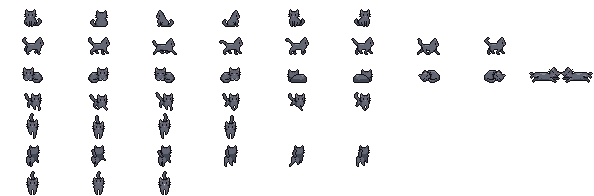
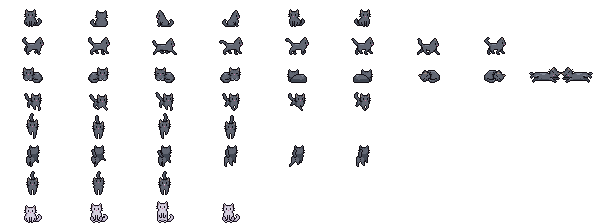
Add draggable pet with split-halfway drag/drop animation
Single GestureDrag distinguishes click (meow) from drag; dragging freezes
the state machine, follows the cursor, and plays the new drag sprite row
only to its halfway frame while held, finishing the second half on
release before resuming prior behavior. Also stash unused REST-block
reference crop for a possible future "flopped" reaction.

diff --git a/pet.py b/pet.py
@@ -76,6 +76,9 @@ class Pet:
         self.afk = False
         self.paused = False    # fullscreen app present: hide + freeze
         self._pre_meow_action = None  # action to resume once a meow finishes
+        self.dragging = False
+        self._pre_drag_action = None  # action to resume once a drag ends
+        self._drag_dx = self._drag_dy = 0.0
         self.W = self.H = 0
         self._last = time.monotonic()
         self._children = []    # spawned helper procs to reap on exit
@@ -170,8 +173,43 @@ class Pet:
     def _exit_meow(self):
         self.enter_action(self._pre_meow_action or "sit")
 
+    def start_drag(self):
+        """Mouse-drag begins: freeze normal behavior, switch to the dangle sprite."""
+        if self.paused:
+            return
+        self._pre_drag_action = (self._pre_meow_action if self.action == "meow"
+                                  else self.action) or "sit"
+        self.action = "drag"
+        self.dragging = True
+        self.action_start = time.monotonic()
+        self.enter("drag")
+
+    def end_drag(self):
+        # hand off from the held first half straight into the second half;
+        # frame is already sitting at the halfway point, just let it keep going
+        self.dragging = False
+        self.action = "drop"
+        self.frame_clock = 0.0
+
     def update(self, dt):
         now = time.monotonic()
+
+        # dragging: animate the "drag" row up to its halfway frame and hold there
+        # while held; on release (see end_drag) action becomes "drop" and we play
+        # out the remaining half once, then resume whatever was running before.
+        if self.action in ("drag", "drop"):
+            a = self.sheet.anim("drag")
+            half = max(1, a["frames"] // 2)
+            cap = (half - 1) if self.action == "drag" else (a["frames"] - 1)
+            dur = 1.0 / a["fps"]
+            self.frame_clock += dt
+            while self.frame_clock >= dur and self.frame < cap:
+                self.frame_clock -= dur
+                self.frame += 1
+            if self.action == "drop" and self.frame >= cap:
+                self.enter_action(self._pre_drag_action or "sit")
+            return
+
         a = self.sheet.anim(self.state)
         # advance animation frames
         self.frame_clock += dt
@@ -430,12 +468,40 @@ def main():
                 rect = cairo.RectangleInt(int(dx), int(dy), int(rw), int(rh))
                 surface.set_input_region(cairo.Region(rect))
 
-        def on_pet_clicked(gesture, n_press, x, y):
-            pet.trigger_meow()
+        # single GestureDrag handles both: a short press-release (no real motion)
+        # is treated as a click -> meow; crossing DRAG_THRESH px starts a real drag
+        # that follows the cursor and shows the "drag" sprite until release.
+        DRAG_THRESH = 6
 
-        click = Gtk.GestureClick.new()
-        click.connect("pressed", on_pet_clicked)
-        area.add_controller(click)
+        def on_drag_begin(gesture, start_x, start_y):
+            gesture.set_state(Gtk.EventSequenceState.CLAIMED)
+
+        def on_drag_update(gesture, offset_x, offset_y):
+            ok, start_x, start_y = gesture.get_start_point()
+            if not ok:
+                return
+            if not pet.dragging:
+                if (offset_x ** 2 + offset_y ** 2) ** 0.5 < DRAG_THRESH:
+                    return
+                pet.start_drag()
+                pet._drag_dx = pet.gx - start_x
+                pet._drag_dy = pet.gy - start_y
+            pet.gx = start_x + offset_x + pet._drag_dx
+            pet.gy = start_y + offset_y + pet._drag_dy
+            pet._clamp()
+            area.queue_draw()
+
+        def on_drag_end(gesture, offset_x, offset_y):
+            if pet.dragging:
+                pet.end_drag()
+            else:
+                pet.trigger_meow()
+
+        drag = Gtk.GestureDrag.new()
+        drag.connect("drag-begin", on_drag_begin)
+        drag.connect("drag-update", on_drag_update)
+        drag.connect("drag-end", on_drag_end)
+        area.add_controller(drag)
 
         def tick():
             now = time.monotonic()

diff --git a/context.md b/context.md
@@ -1,6 +1,6 @@
 # Pixel Pet — Context
 
-> Living status doc. **Update after every successful change.** Last updated: 2026-06-16 (click-to-meow, git init)
+> Living status doc. **Update after every successful change.** Last updated: 2026-06-16 (draggable pet)
 
 ## ⚠️ Maintenance rule (read first)
 **This file MUST be updated after every successfully implemented change.** On each change:
@@ -21,7 +21,12 @@ workspace-independent. Roams in 2D, sits, sleeps when you're away.
   full-output. Click-through everywhere except the pet's own bbox (input region
   shrunk to that rect each tick) so the cat itself is clickable while the rest
   of the screen still passes clicks through. Pixel-art scaled with
-  `FILTER_NEAREST`.
+  `FILTER_NEAREST`. A single `Gtk.GestureDrag` on the drawing area distinguishes
+  click vs drag: press+release under `DRAG_THRESH` (6px) = `pet.trigger_meow()`;
+  crossing that threshold = `pet.start_drag()`, which freezes the state machine
+  and follows the cursor (offset-locked to where it was grabbed) until release
+  (`pet.end_drag()` resumes whatever action was active before, same pattern as
+  the meow freeze/resume).
 - **`run-pet.sh`** — launcher. Sets `LD_PRELOAD=libgtk4-layer-shell.so` (must load
   before libwayland) then runs `pet.py`.
 - **`assets/manifest.json` + `assets/cat/cat.png`** — sprite sheet + metadata.
@@ -33,7 +38,7 @@ niri 26.04, single output eDP-1 1920x1080, Wayland, Arch/cachyos.
 Working dir: `/home/abhi/code/pixel-pet` (now a git repo, initialized 2026-06-16).
 
 ### Sprite sheet truth (rows were mislabeled by auto-segmenter)
-cat.png 594x196, cell 66x28, 9 cols, 7 rows:
+cat.png 594x224, cell 66x28, 9 cols, 8 rows:
 - row0 `idle` — 6 **distinct sit poses** (NOT a loop; hold one frame)
 - row1 `walk` — side/horizontal walk (8)
 - row2 `sleep` — (9)
@@ -42,6 +47,11 @@ cat.png 594x196, cell 66x28, 9 cols, 7 rows:
 - row5 `walk_back` — back walk, ¾ away (6)
 - row6 `meow` — front-facing meow pose, 3 frames, not a loop (added; sourced from
   `assets/src/Free pack/cat 1.png` "meow stand" row, same gray palette as the rest)
+- row7 `drag` — sitting pose, 4 frames, loop (added; sourced directly from a
+  user-supplied lavender/white sprite, not the gray source pack — background was a
+  baked-in gray checkerboard, not real alpha, so it was chroma-keyed out by exact
+  RGB match `(84,81,87)`/`(76,73,79)` before cropping/centering/bottom-aligning the
+  same way as other rows)
 - **No groom animation exists** in this pack.
 - Source pack has more unused rows (eat, yawn, wash, itch, hiss, paw attack, on
   hind legs, plus 3 sleep poses each L/R) in `assets/src/Free pack/cat 1.png` if
@@ -73,8 +83,32 @@ cat.png 594x196, cell 66x28, 9 cols, 7 rows:
       (`bw,bh` in `_draw_meow_bubble`); font bumped to `12 * SCALE / 4` (was 6)
       to read clearly — text is allowed to crowd/overflow the box slightly
       rather than shrinking the bubble.
+- [x] **Draggable pet.** `Gtk.GestureDrag` on the drawing area; under
+      `DRAG_THRESH` px of motion on release it's a click (meow), past it
+      `pet.start_drag()` fires: action freezes to `"drag"`, sprite switches to
+      the new `drag` row and position is driven directly from the cursor
+      (locked to the grab offset so the cat doesn't jump under the pointer)
+      every `drag-update`. Release → `pet.end_drag()` resumes whatever action
+      was running before the grab. Sprite for this row came from a
+      user-supplied lavender/white sitting-cat image, not the gray source
+      pack — see sprite-sheet truth section for the chroma-key note.
+      **Split-halfway animation:** the 4-frame `drag` row plays only its first
+      half (frame 0→1, the halfway point) while held, then holds there for as
+      long as the drag continues — it does **not** loop. On release, action
+      becomes `"drop"` (still sprite row `"drag"`) and frames 1→3 play out
+      once, then `enter_action(pre_drag_action)` resumes normal behavior.
+      Both phases are handled in a dedicated branch at the top of
+      `Pet.update()` (`if self.action in ("drag", "drop")`), bypassing the
+      generic loop/hold frame-advance used by every other state. `loop` in
+      `manifest.json`'s `drag` entry is unused by this path (kept `false` for
+      clarity) — frame capping is computed from `frames // 2`, not the
+      manifest loop flag.
 
 ## To do / open
+- [ ] `assets/src/rest-block-reference.png` — stashed crop of the source pack's
+      REST block (alert/stretch/lounge/flopped-curled poses, gray palette,
+      untouched, not wired into manifest). Candidate frames for a future
+      "held by scruff / flopped" reaction if wanted later.
 - [ ] Decide fate of dead Electron files (`src/`, `electron-builder.yml`, …) — delete?
 - [ ] Groom: source/add a real groom animation if wanted (none in current pack).
 - [ ] README: document behavior model + `PET_IDLE_SEC`, swayidle/niri optional deps.